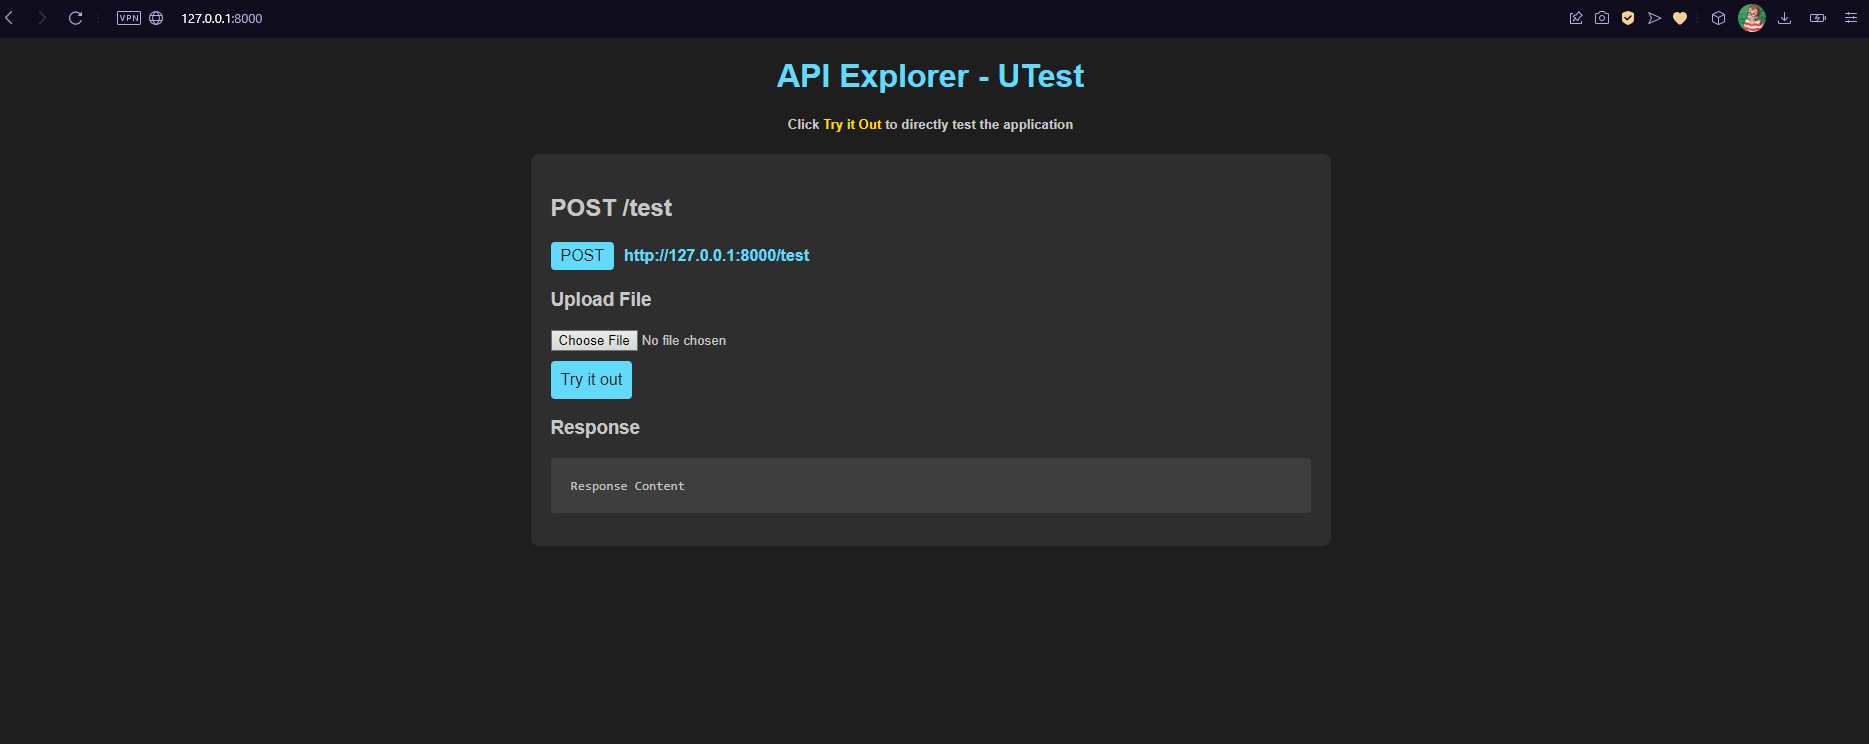
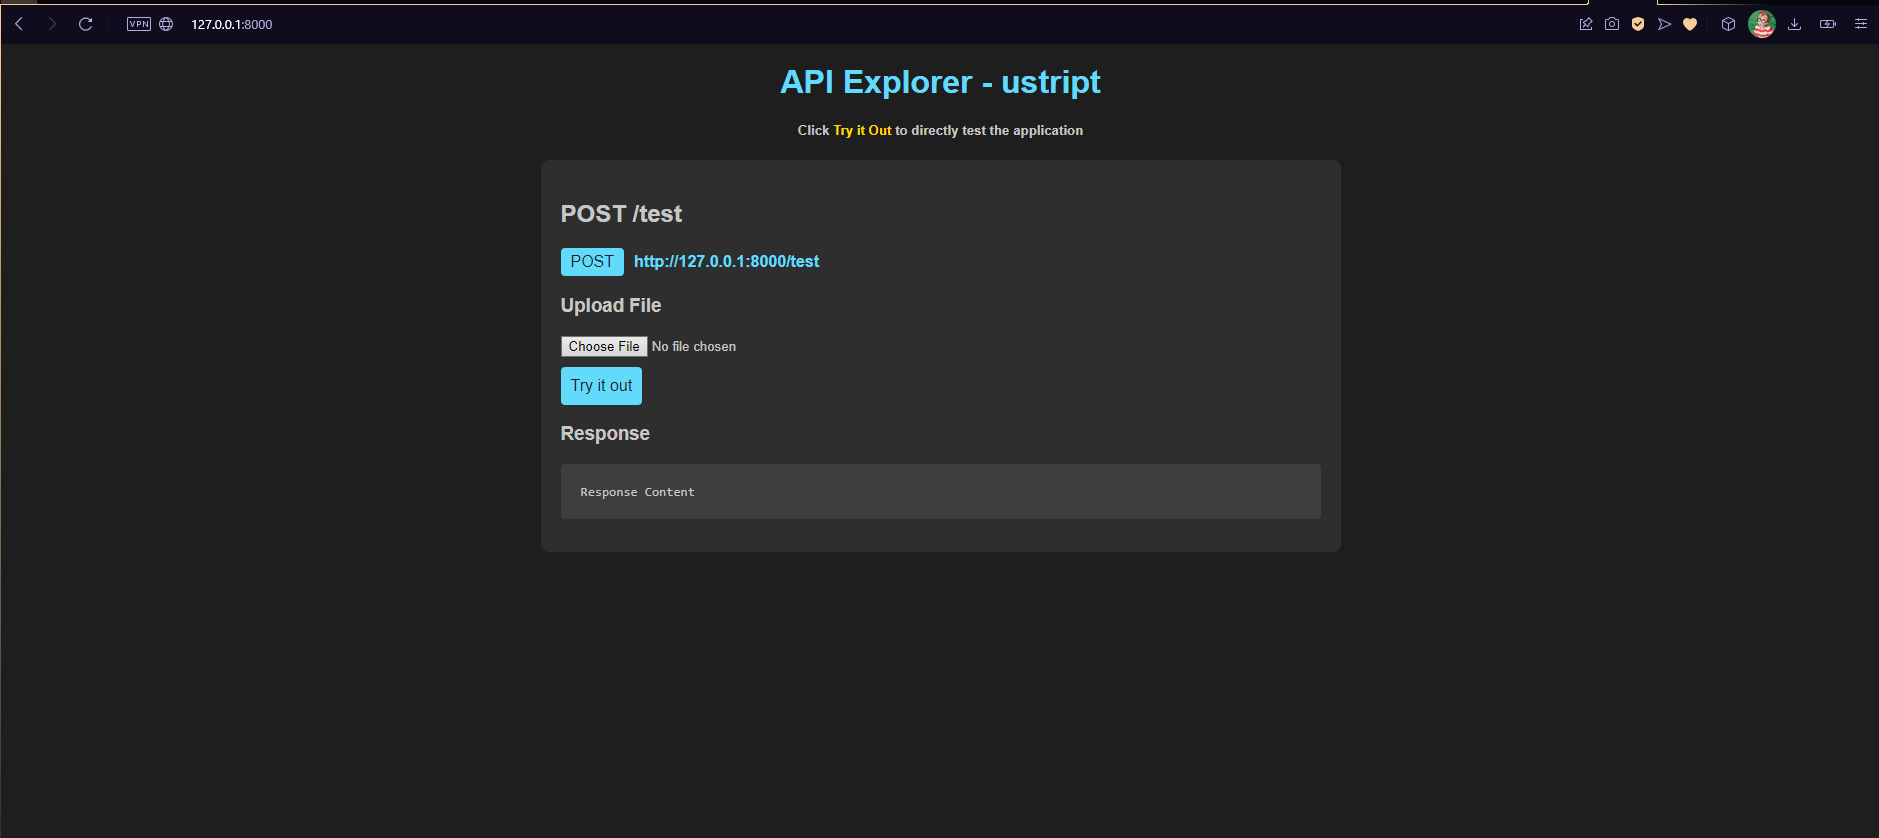
update title

diff --git a/frontend/templates/home.html b/frontend/templates/home.html
@@ -10,7 +10,7 @@
 <body>
     <div class="container">
         <header>
-            <h1>API Explorer - UTest</h1>
+            <h1>API Explorer - ustript</h1>
             <h5>Click <span class="title-span">Try it Out</span> to directly test the application</h5>
         </header>
         <main>
